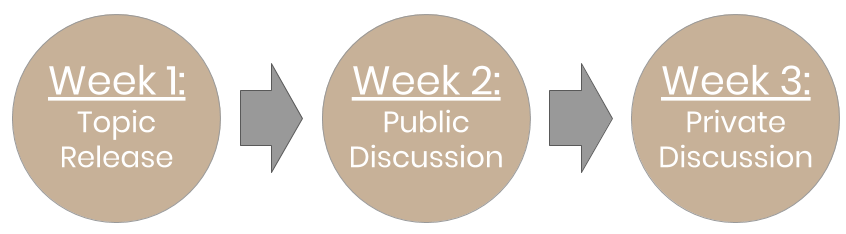
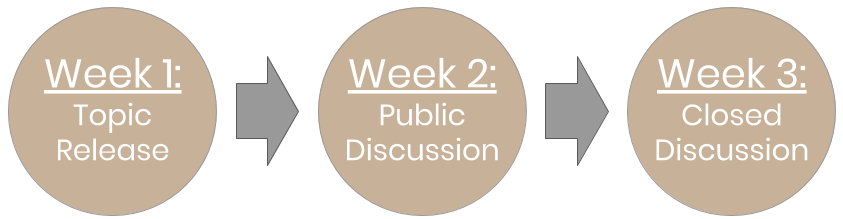
update

diff --git a/index.html b/index.html
@@ -217,13 +217,28 @@
         </div>
 
     		<div class="row">
-    			<div class="col-lg-12" style="padding:25px;">
-    				Test Column hf gihdfgoihsdf;gishdfg ;idsfhg ;sdoighsod;ifhg;sdoihg s;dighs;fdighsd ;gihsdfg;isdhg;osidfgh ;sifhg s;dofigh sd;ofig hsd;foighsd ;fogihsdf g
+    			<div class="col-lg-12 ftco-animate" style="padding:25px; text-align: center;">
+            We believe that one of the major issues facing blockchain technology today is the lack of understanding between key stakeholders. To this end, RegTrax hosts a neutral, unbiased forum where policymakers, builders, researchers, and the public can come together to discuss and learn.
+          </div>
+  <!--          One of the major issues with blockchain technology is the lack of common ground between any of the major stakeholders&mdash;at times, policymakers, builders, lawyers, and members of the public all seem to be speaking different languages. RegTrax is an attempt to seek understanding by creating a platform with room for all of these key groups, and catering to their individual sensitivities. Our solution is a quasi-open forum where we host neutral and unbiased discussions in an effort to close the metaphorical gap.<br>
+            Each cycle covers three weeks: the first week is simply a research week, where we release the upcoming topic and give our members time to familiarize themselves with the issue if necessary, as well as allow the topic to percolate. The second week is the public discussion, where anyone in the world can ask or answer questions, offer their insights, or share their research. This allows the public to learn, to teach, and to shape the conversation as it evolves organically.<br>
+            Ultimately, one important component of the RegTrax mission is carving out space for experts in the field to have transparent, sometimes controversial discussions about these difficult topics. This is a recognition of the realities of our modern world, in which stray tweets can crash markets and reactionary statements can end careers. We believe that one of the best ways forward for blockchain as a technology is to get thought leaders together, and allow them to speak off the record. To give them a sandbox where they can explore controversial ideas without fear of reprecussion. To this end, the last week of every cycle will be a "closed" discussion, where invited participants will collaborate in just such an environment. Of course, we belive that the <i>information</i> that comes out of these discussions belongs to the public, so after the week concludes, RegTrax will strip the transcripts of any identifying information and release a complete and faithful version to the public.
+-->
+
+
+    			<div class="col-lg-12 justify-content-center" style="padding:25px; width: 100%; display: flex; justify-content: center;">
+            <img src="./images/home/flow2.png" class="ftco-animate">
     			</div>
 
-    			<div class="col-lg-12" style="padding:25px;">
-            <img src="./images/home/flow2.png" class="ftco-animate" style="max-height: 10%;">
-    			</div>
+          <div class="col-lg-12 ftco-animate" style="padding:25px; text-align: center;">
+            Each RegTrax cycle is 3 weeks, with the first week set aside for discussion and research, the second for public discussion and comment, and the third for a "closed" discussion among invited thought leaders, where they can share controversial opinions and explore incomplete theories. After each "closed" session concludes, RegTrax will de-identify the participants and information, and release a faithful transcript to the public.
+          </div>
+
+          <div class="col-lg-12 ftco-animate" style="padding:25px; text-align: center;">
+            <a href="#" class="btn btn-black px-4 py-3 ml-lg-2">Read More</a>
+
+          </div>
+
     		</div>
     	</div>
     </section>
@@ -468,9 +483,9 @@
                     </span>
                   </div>
                   <div class="text p-3">
-                    <p class="mb-4">There's no question that America needs coherent regulation ASAP, or they risk falling behind the rest of the world as we move towards a blockchain economy</p>
-                    <p class="name">CodeX Member 09</p>
-                    <span class="position">April 02, 2019</span>
+                    <p class="mb-4">Cyrptocurrency has reached a point of inevitability... The question is, "where?"</p>
+                    <p class="name">Meltem Demirors</p>
+                    <span class="position">July 17, 2019</span>
                   </div>
                 </div>
               </div>

diff --git a/resources.html b/resources.html
@@ -240,7 +240,7 @@
         	</div>
         	<div class="col-md-4">
         		<div class="sermon-wrap sermon-wrap-2 mb-4 ftco-animate">
-    					<a href="#" class="img" style="background-image: url(images/resources/jblp.PNG);"></a>
+    					<a href="#" class="img" style="background-image: url(images/resources/jblp.png);"></a>
     					<div class="text p-4 bg-light text-center">
     						<h2 class="mb-3"><a href="#">Stanford Journal of Blockchain Law and Policy</a></h2>
 		  					<div class="meta">
